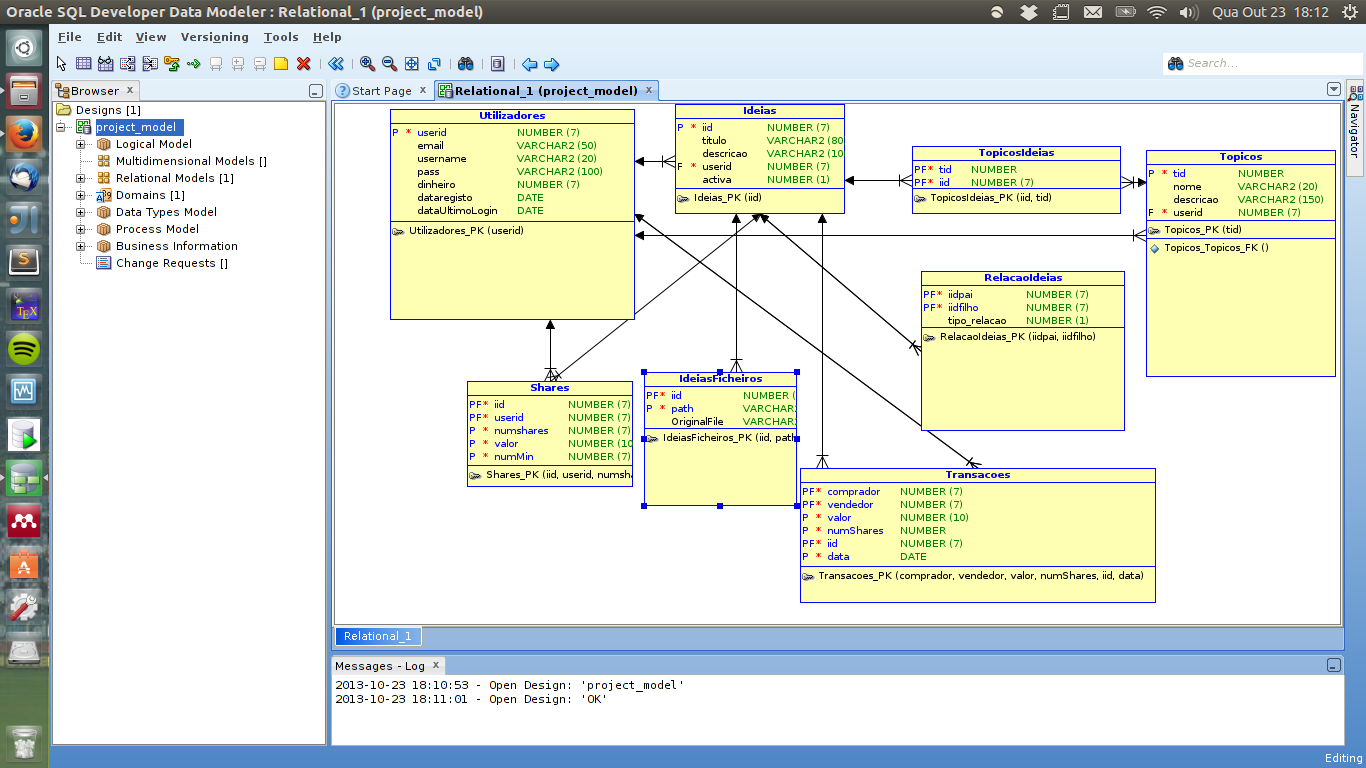
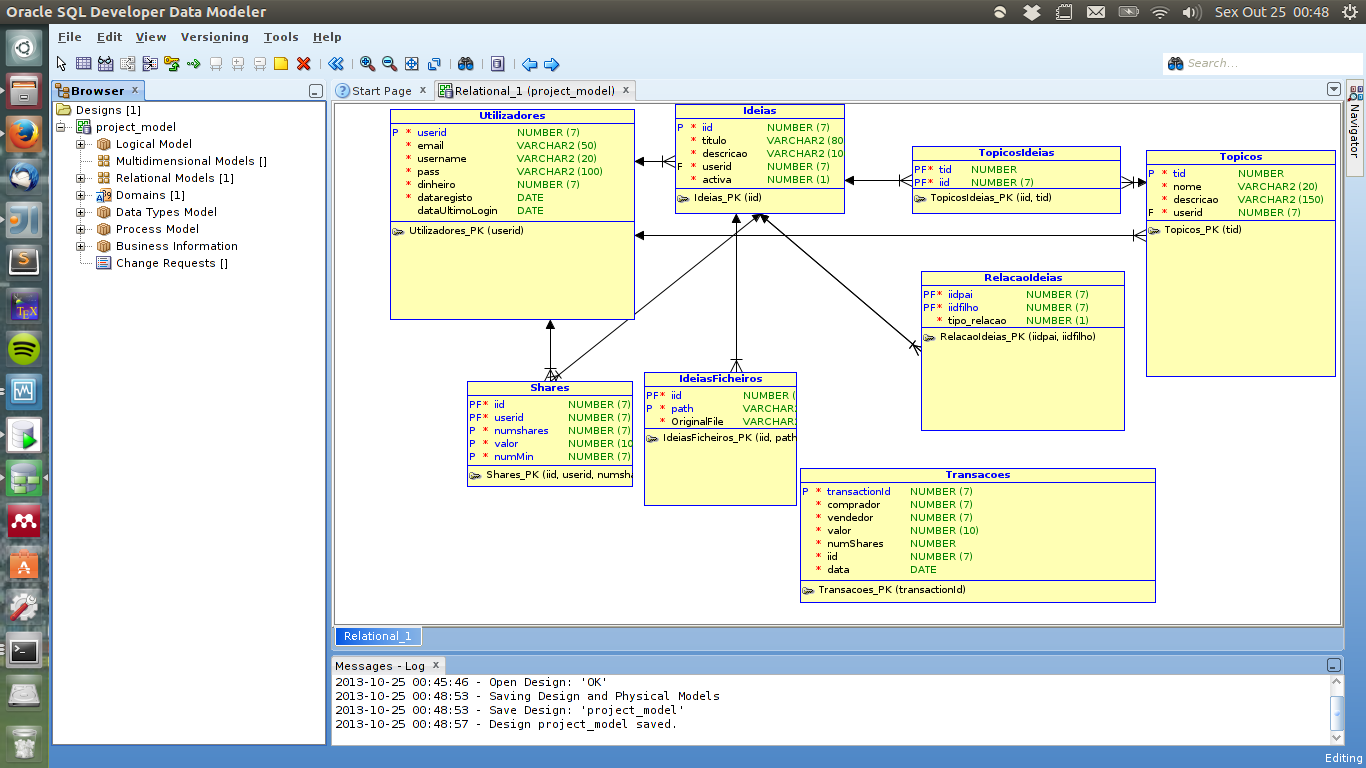
Client can now by  shares and transaction history gets updated. FODE PUTA

diff --git a/RMI_Server.java b/RMI_Server.java
@@ -24,6 +24,7 @@ public class RMI_Server extends UnicastRemoteObject implements RMI_Interface{
     private int num_users;
     private int num_topics;
     private int num_ideas;
+    private int num_transactions;
     private int starting_money = 10000;
     private int limit_time_active = 300;//5 minutes
     private ConnectionPool connectionPool;
@@ -1068,13 +1069,16 @@ public class RMI_Server extends UnicastRemoteObject implements RMI_Interface{
         //  First we are going to extract the system date, and them we are going to add it to the query. It appears to have
         //  to be like this, ORACLE SQL is a very good one, and does not allow us to select sysdate inside a query...
         String queryData = "Select to_char(sysdate, 'yyyy:mm:dd:hh:mi:ss') from dual";
-        String query = "insert into Transacoes values(" + uidBuyer + "," + uidSeller + "," + price  + "," + nshares + "," + iid ;
+        String query = "insert into Transacoes values(" + (num_transactions+1) + "," + uidBuyer + "," + uidSeller + "," + price
+                + "," + nshares + "," + iid ;
         ArrayList<String[]> queryDataResult;
         boolean res = false;
         try {
             queryDataResult = receiveData(queryData, conn);
             query = query + ", to_date('" + queryDataResult.get(0)[0] + "','yyyy:mm:dd:hh:mi:ss'))";
             res = insertData(query, conn);
+            if (res)//It went well
+                num_transactions++;
         } catch (RemoteException e) {
             System.err.println("Remote exception, wtf!"); //FIXME
             e.printStackTrace();  //To change body of catch statement use File | Settings | File Templates.
@@ -1445,6 +1449,9 @@ public class RMI_Server extends UnicastRemoteObject implements RMI_Interface{
 
                 teste = receiveData("Select count(*) from Ideias");
                 num_ideas = Integer.parseInt(teste.get(0)[0]);
+
+                teste = receiveData("Select count(*) from Transacoes");
+                num_transactions = Integer.parseInt(teste.get(0)[0]);
             }catch(RemoteException r){
                 System.err.println("Remote Exception while trying to get the number of users....");
                 //FIXME: HOW TO DEAL WITH THIS EXCEPTION????
@@ -1600,7 +1607,7 @@ public class RMI_Server extends UnicastRemoteObject implements RMI_Interface{
 
     public static void main(String[] args) {
         try{
-            RMI_Server servidor = new RMI_Server("192.168.56.120","1521","XE");
+            RMI_Server servidor = new RMI_Server("192.168.56.101","1521","XE");
             servidor.execute();
         }catch(RemoteException r){
             System.out.println("RemoteException on the main method of the RMI Server");
